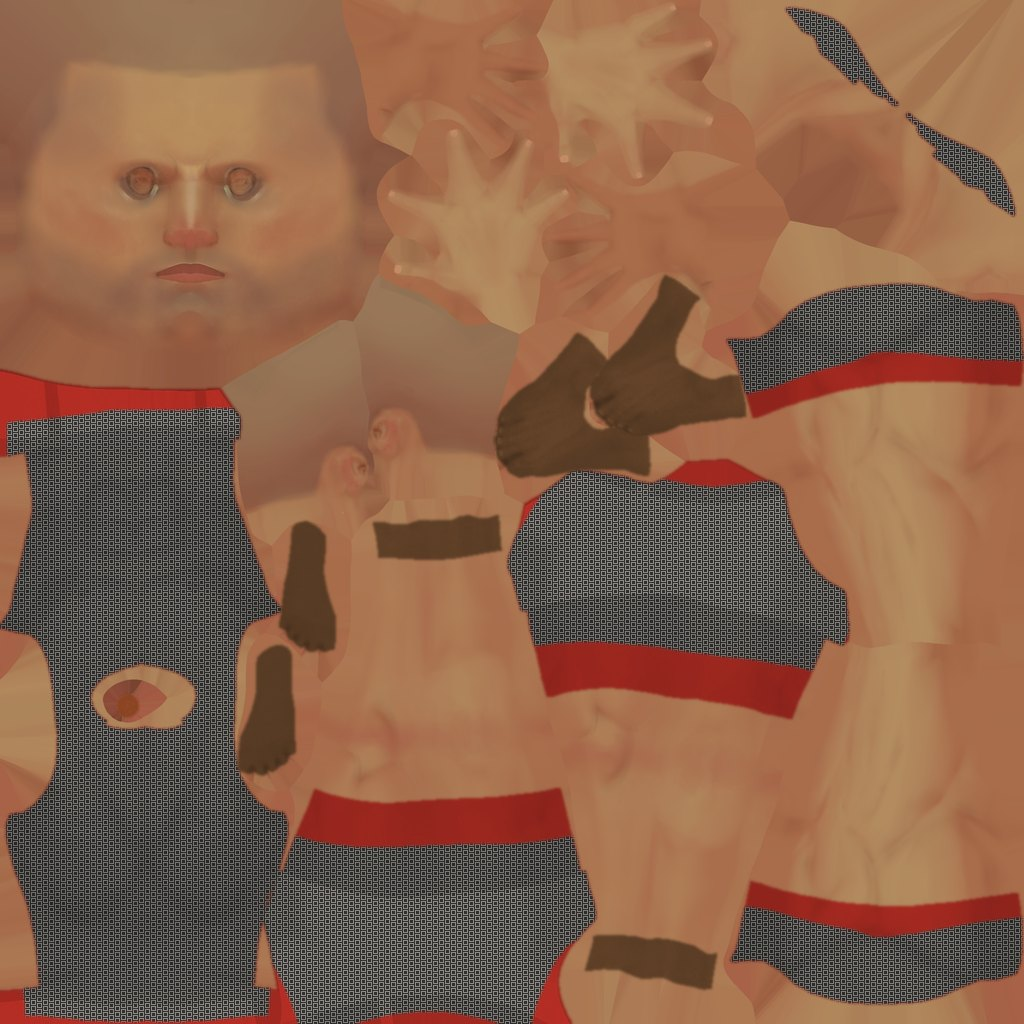
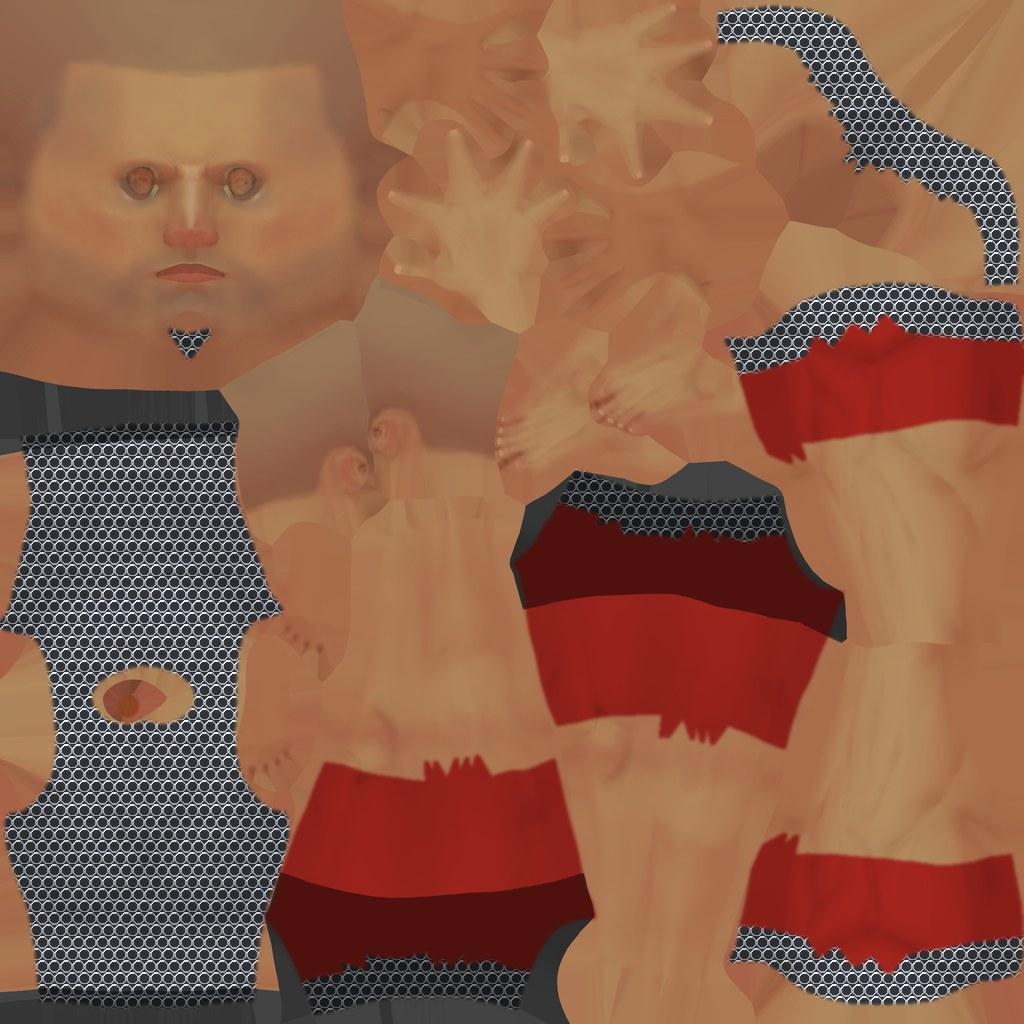
fix: Romans' legs no longer swivel while approaching (capped, eased leg turn with hysteresis); click attacks in a random direction; Viriato holds the dardo / sling stone through the throw; tunics painted on back and shoulders too; leaf textures bleed colour into transparent texels (no dark fringes)
Claude-Session: https://claude.ai/code/session_01ELAARJfiSJ5tJReoBhHHsc

diff --git a/src/game.js b/src/game.js
@@ -1324,13 +1324,14 @@ function updatePlayer(dt) {
     if (P.f.phase !== 'windup' && (P.chargeT >= .08 || released)) {
       // buffered: a click during recovery/flinch starts the blow as soon as the fighter is free
       P.post.x = 0; P.post.y = 0;
-      if (!C.beginAttack(P.f, C.dirFromMouse(P.acc.x, P.acc.y))) {
+      // direction is random for now (no mouse sweep needed); C.dirFromMouse(P.acc) is the Mount & Blade alternative
+      if (!C.beginAttack(P.f, C.randomDir(P.lastDir))) {
         if (P.f.phase === 'idle' && !P.f.blocking) { P.charging = false; showPrompt('Sem fôlego para atacar', .6); }
         else if (released) P.queued = true;
       } else if (P.queued) { P.queued = false; C.releaseAttack(P.f); P.charging = false; }
     }
     // a clear sweep right after the blow started still turns it (the first one may have been read from camera turning)
-    if (P.f.phase === 'windup' && Math.hypot(P.post.x, P.post.y) > 14) { C.reaim(P.f, C.dirFromMouse(P.post.x, P.post.y)); P.post.x = P.post.y = 0; }
+    if (P.f.phase === 'windup') P.lastDir = P.f.dir;
     if (released && P.f.phase === 'windup') { C.releaseAttack(P.f); P.charging = false; }
     if (P.w !== 0) P.charging = false;
   }
@@ -1381,6 +1382,9 @@ function updateCamera(dt) {
   const bob3 = setPose(avatar, dt);
   AV.root.position.set(P.pos.x, P.pos.y + bob3 - (AV.rig ? 0 : P.crouch * .3), P.pos.z); AV.root.rotation.y = avatar.yaw;
   AV.root.visible = view === 'third'; AV_FAL.visible = P.w === 0;
+  const thrown = !P.throwPending && P.throwT > 0; // between release and drawing the next one
+  AV_JAV.visible = P.w === 1 && P.dardos + (P.throwPending ? 1 : 0) > 0 && !thrown;
+  AV_STONE.visible = P.w === 2 && P.pedras + (P.throwPending ? 1 : 0) > 0 && !thrown;
   if (view === 'third') {
     const dir = fwd3(), right = V(Math.cos(P.yaw), 0, -Math.sin(P.yaw));
     const pivot = V(P.pos.x, P.pos.y + 1.6 - P.crouch * .5, P.pos.z);
@@ -1583,6 +1587,16 @@ function step(dt) {
 const AV = soldier('lusitano'); scene.add(AV.root); AV.root.visible = false;
 let AV_FAL = null; AV.root.traverse(o => { if (o.name === 'falcata') AV_FAL = o; });
 const AV_HAND = AV.rig ? AV.weapon : AV.elbows[1].children.at(-1);
+// what Viriato holds for the ranged weapons: a dardo along the forearm line (hand +z, point forward) and a sling stone
+const AV_JAV = new THREE.Group(), AV_STONE = new THREE.Group();
+{
+  const sh = new THREE.Mesh(new THREE.CylinderGeometry(.013, .013, 1.35, 6), MAT('wood')); sh.rotation.x = Math.PI / 2; sh.position.z = .2; sh.castShadow = true;
+  const tip = new THREE.Mesh(new THREE.ConeGeometry(.026, .17, 6), MAT('iron')); tip.rotation.x = Math.PI / 2; tip.position.z = .95; tip.castShadow = true;
+  AV_JAV.add(sh, tip);
+  const st = new THREE.Mesh(new THREE.SphereGeometry(.035, 8, 6), MAT('castro_stone')); st.position.set(0, -.04, .02); st.castShadow = true;
+  const cord = new THREE.Mesh(new THREE.CylinderGeometry(.004, .004, .55, 4), M(0x7a5a3a)); cord.position.set(0, -.3, 0); AV_STONE.add(st, cord);
+  AV_HAND.add(AV_JAV, AV_STONE); AV_JAV.visible = AV_STONE.visible = false;
+}
 const avatar = { m: AV, f: P.f, yaw: 0, mv: { x: 0, z: 0 }, state: 'chase', kind: 'lusitano', stride: 0 };
 R = await createRender({ THREE, renderer, scene, camera, sun, grass: GRASS, quality: resolveQuality(quality), devicePixelRatio: window.devicePixelRatio || 1 });
 for (const b of document.querySelectorAll('[data-q]')) {
@@ -1598,7 +1612,7 @@ return {
   get enemies() { return enemies; }, get mission() { return mission; }, get state() { return state; },
   get projectiles() { return projectiles; }, get pickups() { return pickups; },
   input: { mouse: (l, r) => { mouseL = l; mouseR = r; }, mouseMove: (dx, dy) => { C.nudgeIntent(P.intent, dx, dy); if (P.charging) { P.acc.x += dx; P.acc.y += dy; } if (P.f.phase === 'windup' && !P.f.released) { P.post.x += dx; P.post.y += dy; } } },
-  studio: { pose: (e, dt) => { const b = setPose(e, dt); e.m.root.position.set(e.pos.x, e.pos.y + b, e.pos.z); e.m.root.rotation.y = e.yaw; }, freeze: () => { state = 'studio'; }, avatarEntity: () => avatar },
+  studio: { pose: (e, dt) => { const b = setPose(e, dt); e.m.root.position.set(e.pos.x, e.pos.y + b, e.pos.z); e.m.root.rotation.y = e.yaw; }, freeze: () => { state = 'studio'; }, play: () => { state = 'play'; }, avatarEntity: () => avatar },
   avatar: AV, get view() { return view; }, avatarHand: () => throwOrigin(), trailCount: () => { let n = 0; for (const t of trails.values()) n += t.samples.length; return n; }, physicsOk: phys.ok, physCounts: () => phys.counts(), V3: THREE.Vector3, damageEnemyForTest: (e, d) => damageEnemy(e, d, false, e.pos.clone()), spawnEnemyJavelin, vm: { stuckVisible: () => STUCK.filter(m => m.visible).length, fal: FAL },
 };
 }

diff --git a/src/rig.js b/src/rig.js
@@ -110,6 +110,21 @@ export function makeRig(THREE, cloneSkinned, assets, { outfit = 'roman_red', hai
   return rig;
 }
 
+export const LEG_TWIST_MAX = .5;
+/**
+ * Pure: how far the legs turn toward the travel direction (radians, + = model's left) and whether to play the walk backwards.
+ * Capped and faded in with speed; `wasBackward` gives hysteresis so strafing jitter doesn't flip the legs.
+ */
+export function legTwist(fwd, side, wasBackward) {
+  const sp = Math.hypot(fwd, side);
+  const backward = wasBackward ? fwd < .2 * sp : fwd < -.35 * sp;
+  if (sp < .5) return { yaw: 0, backward };
+  const f = backward ? -fwd : fwd, sd = backward ? -side : side;
+  const a = Math.atan2(sd, Math.max(0, f) + 1e-6);
+  const fade = Math.min(1, (sp - .5) / .8);
+  return { yaw: Math.max(-LEG_TWIST_MAX, Math.min(LEG_TWIST_MAX, a)) * fade, backward };
+}
+
 const SMOOTH = 14;
 /** Blend one layer toward `target` = { clipName: { w, time?, rate? } }; weights always sum to 1. */
 function blendLayer(rig, L, target, dt, snap) {
@@ -141,9 +156,9 @@ export function driveRig(THREE, rig, s, dt) {
   }
   // locomotion: legs take the travel direction, the chest keeps facing the foe
   const fwd = s.speed || 0, side = s.side || 0, sp = Math.hypot(fwd, side);
-  let yaw = 0, signed = fwd;
-  if (sp > .2) { yaw = Math.atan2(side, Math.abs(fwd) + 1e-6); signed = Math.sign(fwd || 1) * sp; if (fwd < -.1) yaw = -yaw; yaw = Math.max(-1.1, Math.min(1.1, yaw)); }
-  rig.side += (yaw - rig.side) * Math.min(1, dt * 8);
+  const lt = legTwist(fwd, side, rig.backward); rig.backward = lt.backward;
+  const signed = (lt.backward ? -1 : 1) * sp;
+  rig.side += (lt.yaw - rig.side) * Math.min(1, dt * 4);
   const L0 = locomotion(signed, s.crouch);
   lo[L0.clip] = { w: 1, rate: L0.rate };
   // one-shot reactions (hit / knockback) override the upper body for their length

diff --git a/index.html b/index.html
@@ -121,7 +121,7 @@
     <div class="keys">
       <b>W A S D</b><span>mover</span><b>RATO</b><span>olhar</span>
       <b>CLIQUE</b><span>atacar (segura para carregar)</span><b>CLIQUE DIR.</b><span>escudo</span>
-      <b>RATO + CLIQUE</b><span>varre o rato para ← → ↑ e clica (ou varre logo a seguir); rato parado = estocada</span><b>Q</b><span>aparar com a falcata</span>
+      <b>CLIQUE</b><span>golpe numa direção ao acaso (segura para carregar)</span><b>Q</b><span>aparar com a falcata</span>
       <b>F</b><span>empurrão com escudo</span><b>R</b><span>arrancar dardos do escudo</span>
       <b>1 2 3 / RODA</b><span>armas</span><b>SHIFT</b><span>correr</span>
       <b>ESPAÇO</b><span>saltar</span><b>C</b><span>agachar</span>

diff --git a/src/materials.js b/src/materials.js
@@ -180,7 +180,7 @@ function needleCanvas(document, size = 512, seed = 3) {
  */
 export async function loadFoliage({ THREE, loader, document, anisotropy = 4 }) {
   const make = (color, tex) => {
-    const m = new THREE.MeshStandardMaterial({ color, roughness: .85, side: THREE.DoubleSide, alphaTest: .5, map: tex || null });
+    const m = new THREE.MeshStandardMaterial({ color, roughness: .85, side: THREE.DoubleSide, alphaTest: .4, map: tex || null });
     if (!tex) m.alphaTest = 0; // no cut-out mask available: plain leaves
     else m.emissive.setHex(0x1c2410); // light passing through leaves: keeps shaded crowns from going black
     return m;

diff --git a/src/combat.js b/src/combat.js
@@ -141,3 +141,8 @@ export function reaim(f, dir) {
   if (f.phase !== 'windup' || f.released || f.t > REAIM_TIME || !dir) return false;
   f.dir = dir; return true;
 }
+/** For click-to-attack: a random direction, different from the previous blow. */
+export function randomDir(prev, rng = Math.random) {
+  const opts = DIRS.filter(d => d !== prev);
+  return opts[Math.floor(rng() * opts.length) % opts.length];
+}

diff --git a/tools/paint-outfits.py b/tools/paint-outfits.py
@@ -1,0 +1,54 @@
+# Dev tool: paints tunics onto the Quaternius body texture by rasterising the mesh's UV triangles that lie in
+# the torso / skirt / sleeve regions of the bind pose (front AND back), shading cloth with the skin's luminance.
+# usage: python3 -I tools/paint-outfits.py <dir with Superhero_Male_FullBody.gltf/.bin + T_Superhero_Male_Dark.png>
+import json, sys, numpy as np
+from PIL import Image, ImageDraw, ImageFilter
+SRC = sys.argv[1]
+OUT = __file__.rsplit('/tools/', 1)[0] + '/assets/chars/'
+S = 1024
+j = json.load(open(SRC + '/Superhero_Male_FullBody.gltf')); b = open(SRC + '/Superhero_Male_FullBody.bin', 'rb').read()
+def acc(i):
+    a = j['accessors'][i]; v = j['bufferViews'][a['bufferView']]; n = {'SCALAR': 1, 'VEC2': 2, 'VEC3': 3}[a['type']]
+    dt = {5126: '<f4', 5123: '<u2', 5125: '<u4'}[a['componentType']]
+    return np.frombuffer(b, dtype=dt, count=a['count'] * n, offset=v.get('byteOffset', 0) + a.get('byteOffset', 0)).reshape(a['count'], n)
+prim = next(p for m in j['meshes'] for p in m['primitives'] if j['materials'][p['material']]['name'] == 'MI_Superhero_Male')
+P = acc(prim['attributes']['POSITION']); UV = acc(prim['attributes']['TEXCOORD_0']); I = acc(prim['indices']).reshape(-1, 3)
+masks = {k: Image.new('L', (S, S), 0) for k in ('upper', 'lower', 'sleeve')}
+draw = {k: ImageDraw.Draw(m) for k, m in masks.items()}
+for tri in I:
+    c = P[tri].mean(0); x, y = abs(c[0]), c[1]
+    k = None
+    if x < .26 and .98 <= y <= 1.58: k = 'upper'          # chest, back, and the shoulder tops round the neck opening
+    elif x < .26 and .6 <= y < .98: k = 'lower'           # belly, hips, skirt to mid-thigh
+    elif .2 <= x < .4 and y > 1.28: k = 'sleeve'          # short sleeves
+    if not k: continue
+    uv = UV[tri]
+    if np.ptp(uv[:, 0]) > .3 or np.ptp(uv[:, 1]) > .3: continue  # seam-spanning triangle
+    draw[k].polygon([(u * S, v * S) for u, v in uv], fill=255)
+for k in masks: masks[k] = masks[k].filter(ImageFilter.MaxFilter(5)).filter(ImageFilter.GaussianBlur(1.5))
+skin = Image.open(SRC + '/T_Superhero_Male_Dark.png').convert('RGB').resize((S, S), Image.LANCZOS)
+lum = np.asarray(skin.convert('L'), np.float32) / 255; shade = np.clip(lum / max(1e-3, np.median(lum)), .55, 1.35)[..., None]
+# ring mail: rows of small iron rings, each row offset by half a ring
+t = Image.new('RGB', (24, 24), (46, 48, 52)); dr = ImageDraw.Draw(t)
+for cx, cy in ((6, 6), (18, 6), (0, 18), (12, 18), (24, 18)):
+    dr.ellipse((cx - 6, cy - 6, cx + 6, cy + 6), outline=(150, 154, 160), width=2)
+    dr.arc((cx - 6, cy - 6, cx + 6, cy + 6), 200, 280, fill=(210, 214, 220), width=2)
+tile = np.asarray(t, np.float32)
+mail = np.tile(tile, (S // 24 + 1, S // 24 + 1, 1))[:S, :S]
+OUTFITS = {   # (upper, lower, sleeve) colours, or 'mail'
+  'roman_red':   ((142, 32, 26), (142, 32, 26), (142, 32, 26)),
+  'roman_white': ((196, 186, 164), (196, 186, 164), (196, 186, 164)),
+  'roman_mail':  ('mail', (142, 32, 26), (142, 32, 26)),
+  'velite':      ((150, 118, 80), (150, 118, 80), (150, 118, 80)),     # undyed brown wool
+  'lusitano':    ((206, 196, 170), (70, 52, 36), (206, 196, 170)),   # linen corslet over a dark wool tunic
+  'lusitano_b':  ((92, 72, 48), (70, 52, 36), (92, 72, 48)),
+}
+base = np.asarray(skin, np.float32)
+for name, cols in OUTFITS.items():
+    img = base.copy()
+    for k, col in zip(('upper', 'lower', 'sleeve'), cols):
+        m = np.asarray(masks[k], np.float32)[..., None] / 255
+        cloth = mail * shade if col == 'mail' else np.array(col, np.float32) * shade
+        img = img * (1 - m) + cloth * m
+    Image.fromarray(img.clip(0, 255).astype(np.uint8)).save(OUT + 'body_' + name + '.jpg', quality=88)
+    print('body_' + name + '.jpg')
